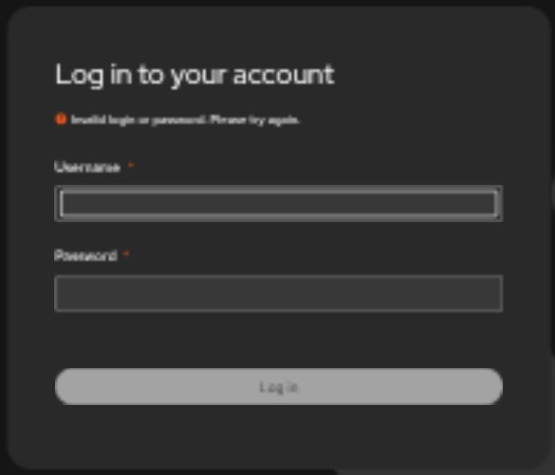
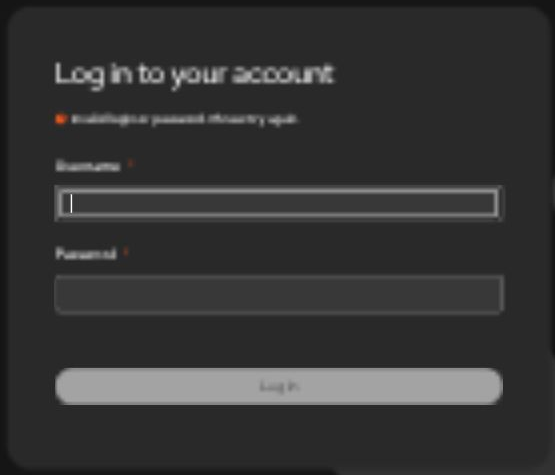
Verify native HTPasswd password rotation and refresh login evidence

diff --git a/test-cases/35-htpasswd-provider/ADMIN-GUIDE.md b/test-cases/35-htpasswd-provider/ADMIN-GUIDE.md
@@ -1,9 +1,8 @@
 # Administrator reference: HTPasswd login
 
-> **Status.** The console steps, including both password-change login checks, were exercised
-> on OpenShift 4.22 with an earlier procedure. The current native command sequence still
-> needs a full run. The 4.21 steps were checked against documentation only.
-> See [verification notes](#verification-notes).
+> **Status.** Provider setup, the native password update, administrator access, both fresh-login
+> checks and cleanup were exercised on OpenShift 4.22 with a temporary test account.
+> The 4.21 steps were checked against documentation only. [Details](#verification-notes).
 
 The complete test, in order, is the [walkthrough](RUNBOOK.md). This page covers only what
 comes before it, the reuse details, recovery and troubleshooting. The commands follow Red
@@ -139,13 +138,12 @@ it with `oc create -f`.
 
 - Console provider setup, first login, `cluster-admin` access and cleanup were exercised on
   OpenShift 4.22.
-- An earlier form of the file and Secret commands (rebuilding the Secret with
-  `oc create secret ... --dry-run=client | oc replace`) was checked on 4.22 with temporary
-  Secrets. The current commands (versioned `oc replace` of the saved Secret, the named
-  binding created new) were checked only with local sample files and a server-side dry run of a
-  Secret, not in a full run.
-- Saved results from the earlier procedure show a fresh login with the new password and
-  one refused attempt with the old password. The walkthrough includes the refusal
-  screenshot. Repeat both checks after changing the password in your own run.
-- 4.21 was checked against documentation only. Managed password sources, GitOps integration
-  and existing production identity providers remain unverified.
+- The native `htpasswd` commands, versioned Secret update and named binding were also
+  exercised with a new temporary provider on 4.22. The Secret kept its other fields.
+  A fresh login accepted the new password; a separate fresh login refused the old password
+  on its first attempt. The test account, grant, provider and Secret were then removed.
+- That native run used the administrator's CLI alternative to register the provider.
+  The separate browser session was signed out and closed before each password check.
+- 4.21 was checked against documentation only. Reusing an existing provider, managed
+  password sources, GitOps integration and existing production identity providers remain
+  unverified.

diff --git a/test-cases/35-htpasswd-provider/RUNBOOK.md b/test-cases/35-htpasswd-provider/RUNBOOK.md
@@ -1,9 +1,8 @@
 # HTPasswd login: walkthrough
 
-> **Status.** Provider setup, first login, cluster-admin access, both password-change
-> login checks and cleanup were exercised on OpenShift 4.22 with an earlier procedure.
-> The current native command sequence still needs a full run. The 4.21 steps were checked
-> against documentation only. [Details](ADMIN-GUIDE.md#verification-notes).
+> **Status.** Provider setup, the native password update, administrator access, both fresh-login
+> checks and cleanup were exercised on OpenShift 4.22 with a temporary test account.
+> The 4.21 steps were checked against documentation only. [Details](ADMIN-GUIDE.md#verification-notes).
 
 **Goal:** add a local test login, make it a cluster administrator, change its password, and
 then remove it, while the existing logins keep working.
@@ -264,12 +263,15 @@ Then wait for authentication to settle as in step 3.
 
 1. Sign out the test user and close that private window. Open a fresh private
    window and sign in with the **new** password. **Expected:** it works.
+
+   ![Nodes opens after a fresh login with the new password; node names are hidden](images/11-new-password-login.png)
+
 2. Close it and open another fresh private window. Try the **old** password once.
    **Expected:** it is refused (for example,
    *Invalid login or password. Please try again.*).
 3. Confirm your administrator session and the other logins still work.
 
-![Earlier test: the old password was refused after the password change](images/07-old-password-refused.png)
+![The old password is refused after the password change](images/07-old-password-refused.png)
 
 A password change does **not** end sessions or tokens that already exist. Ending them is a
 separate step (sign-out, or deleting the user's tokens in step 7).

diff --git a/README.md b/README.md
@@ -83,12 +83,11 @@ storage.
   pod were exercised with a 4.21 hub. After the **latest** run, cleanup was held for
   review; an earlier rehearsal removed its check workload. It starts from an existing
   CIM setup and a spare approved server; it does not show autoscaling.
-- **Case 35:** console provider setup, first login, cluster-admin access and cleanup
-  were exercised, including a fresh login with the new password and refusal of the old
-  password. These results used an earlier procedure; the current command forms were
-  checked only against local sample files and limited server dry-runs.
+- **Case 35:** provider setup, first login, native password update, cluster-admin access,
+  new-password login, old-password refusal and scoped cleanup were exercised with a
+  temporary test account. Reusing an existing provider remains unverified.
 
-Later command changes were checked with sample data and limited server dry-runs
+For the other cases, later command changes were checked with sample data and limited server dry-runs
 (validation without saving changes). The complete cluster tests have not been repeated.
 
 Use each case's results sheet to record outcomes. Keep credentials, filled-in YAML

diff --git a/test-cases/35-htpasswd-provider/REFERENCES.md b/test-cases/35-htpasswd-provider/REFERENCES.md
@@ -1,10 +1,9 @@
 # Sources and applicability
 
-The provider, Secret, password-file update and cluster-admin procedures were checked against
-the OpenShift 4.21 and 4.22 documentation. Provider setup, login, cluster-admin access, both
-password-change login checks and cleanup were exercised on 4.22 with an earlier procedure.
-The current conditional update was checked with local sample files and a limited server
-dry-run, not in a complete run. There was no 4.21 runtime rehearsal.
+The procedures were checked against the OpenShift 4.21 and 4.22 documentation. Provider
+setup, the native password update, cluster-admin access, both fresh-login checks and cleanup
+were exercised on 4.22 with a temporary test account. Reusing an existing provider was not
+rehearsed. There was no 4.21 runtime rehearsal.
 
 | Topic | 4.21 | 4.22 |
 | --- | --- | --- |

diff --git a/test-cases/35-htpasswd-provider/README.md b/test-cases/35-htpasswd-provider/README.md
@@ -1,9 +1,8 @@
 # Test Case 35 - HTPasswd Provider
 
-> **Status.** The console steps, including both password-change login checks, were exercised
-> on OpenShift 4.22 with an earlier procedure. The current native command sequence still
-> needs a full run. The 4.21 steps were checked against documentation only.
-> See [verification notes](ADMIN-GUIDE.md#verification-notes).
+> **Status.** Provider setup, the native password update, administrator access, both fresh-login
+> checks and cleanup were exercised on OpenShift 4.22 with a temporary test account.
+> The 4.21 steps were checked against documentation only. [Details](ADMIN-GUIDE.md#verification-notes).
 
 For teams asking: *how do we add a local login, make it a cluster administrator, and later
 change its password, without disturbing the logins we already have?* The case sets up (or
